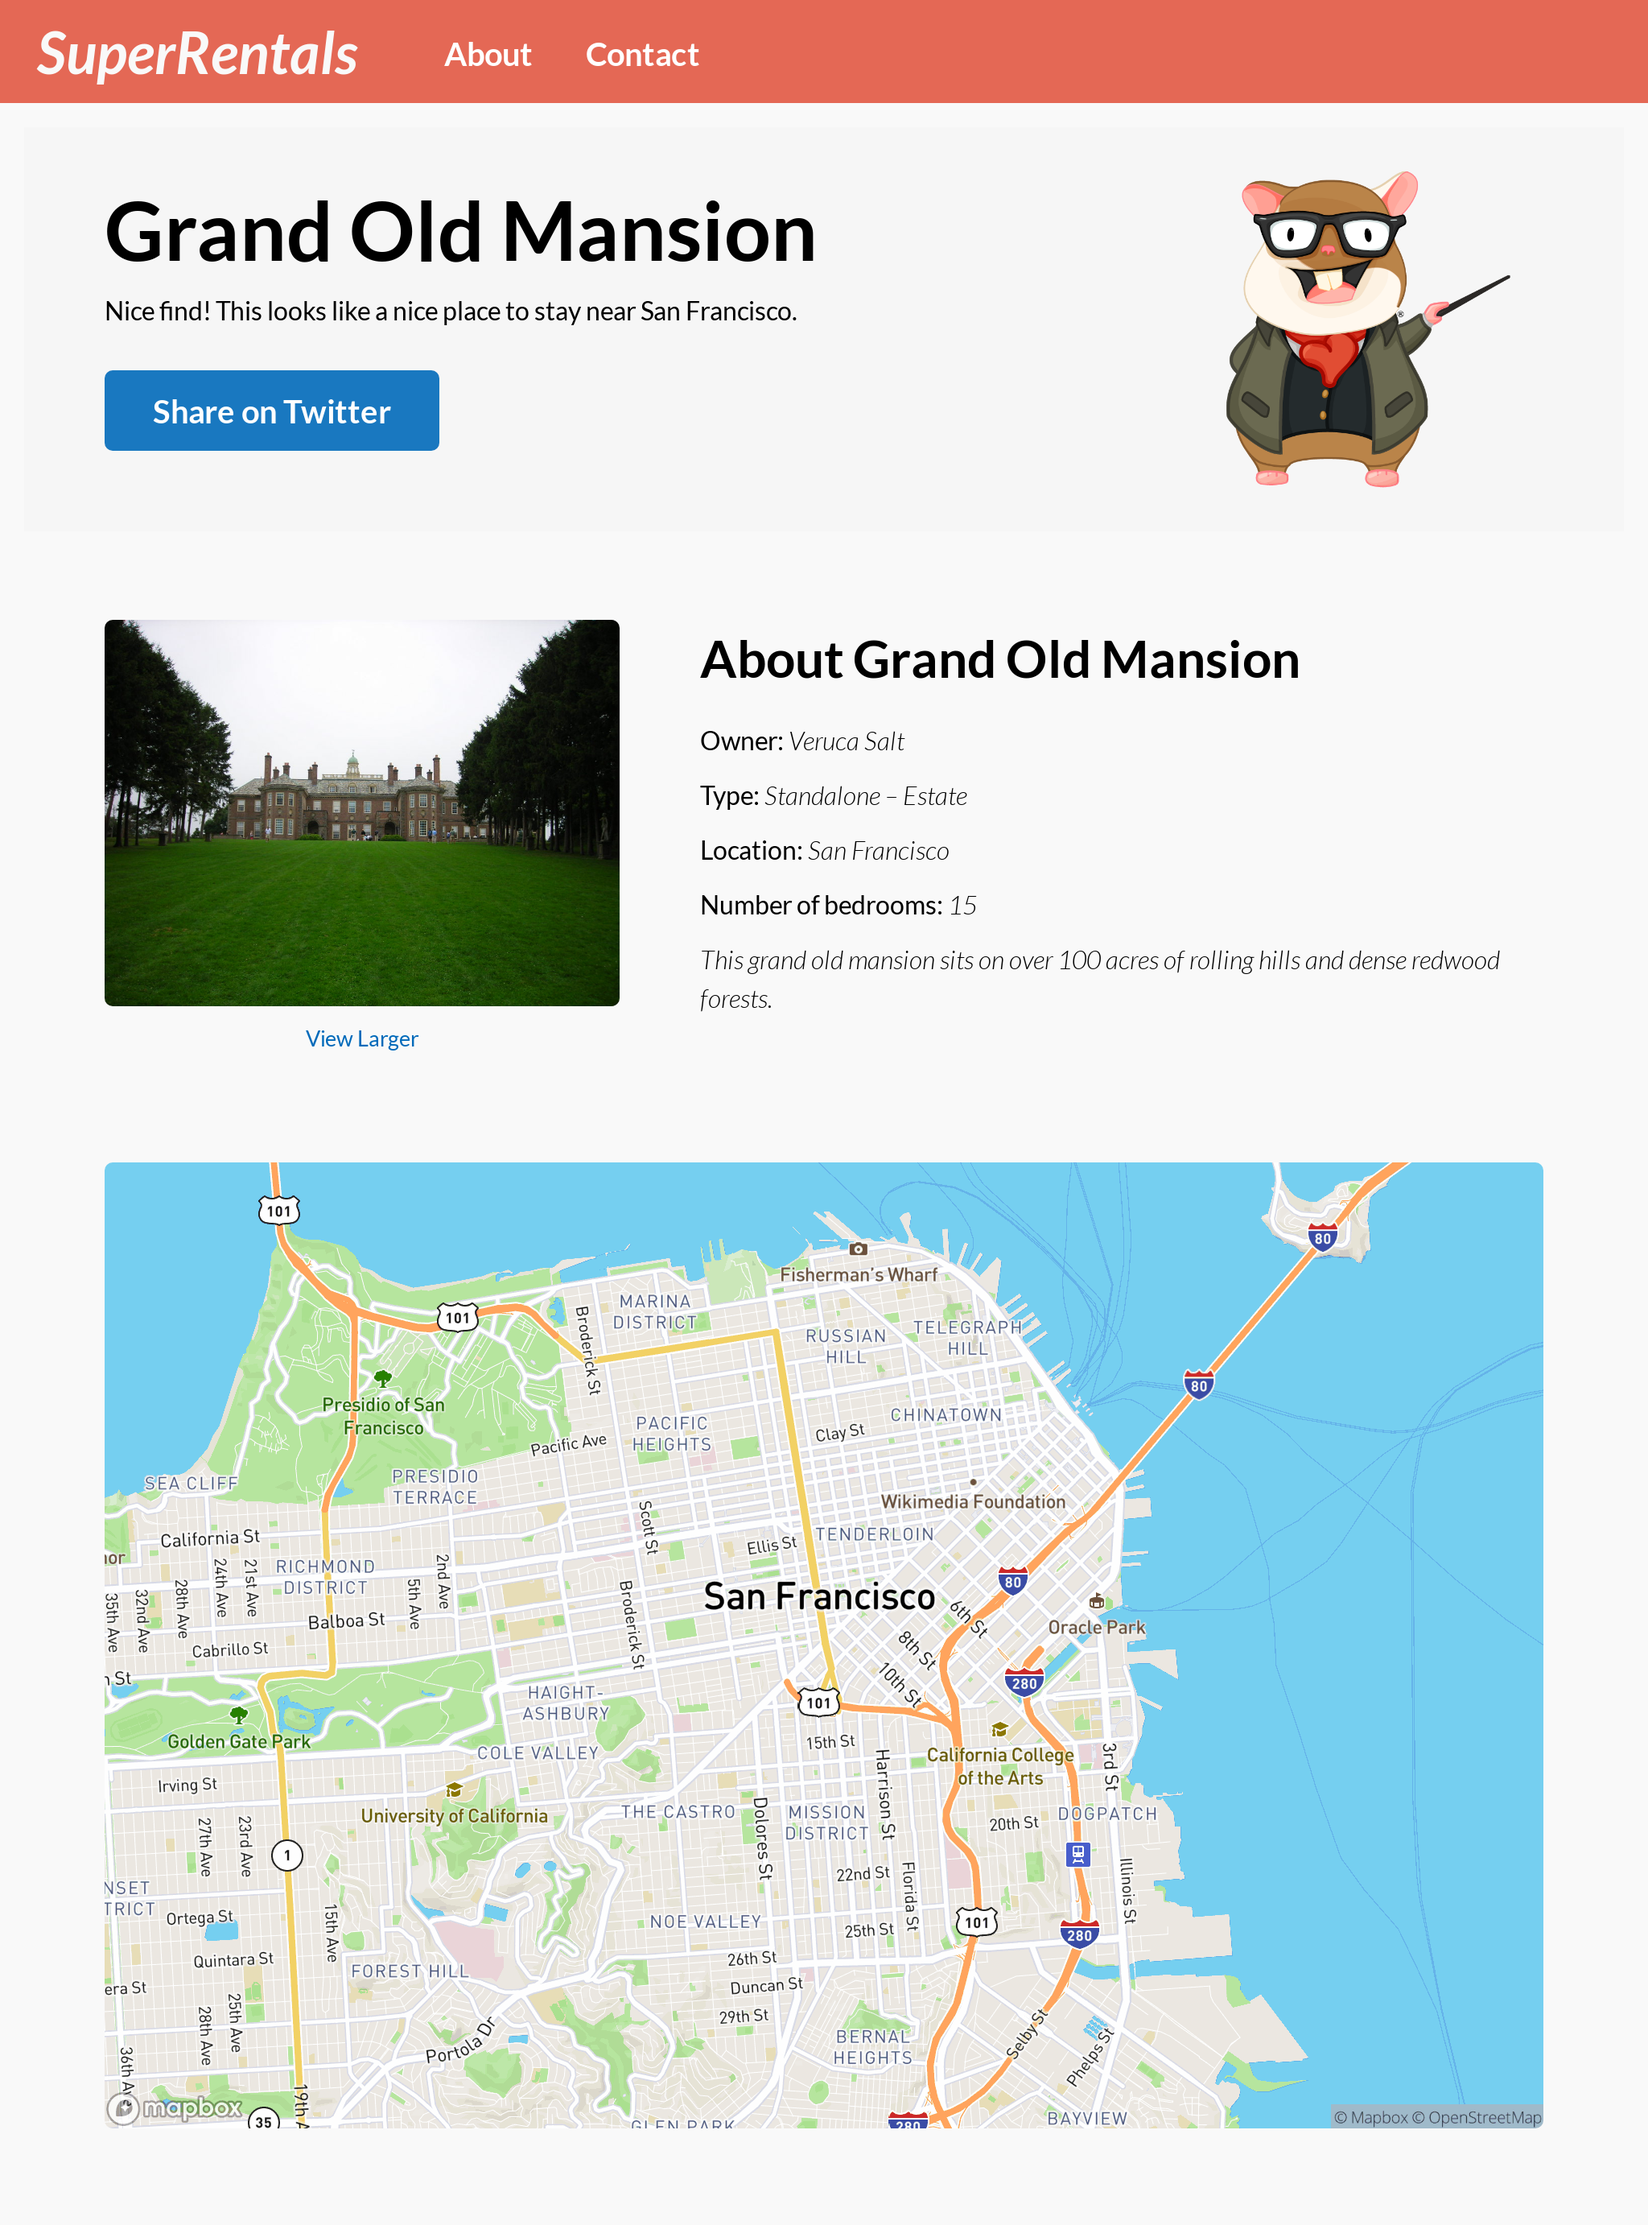
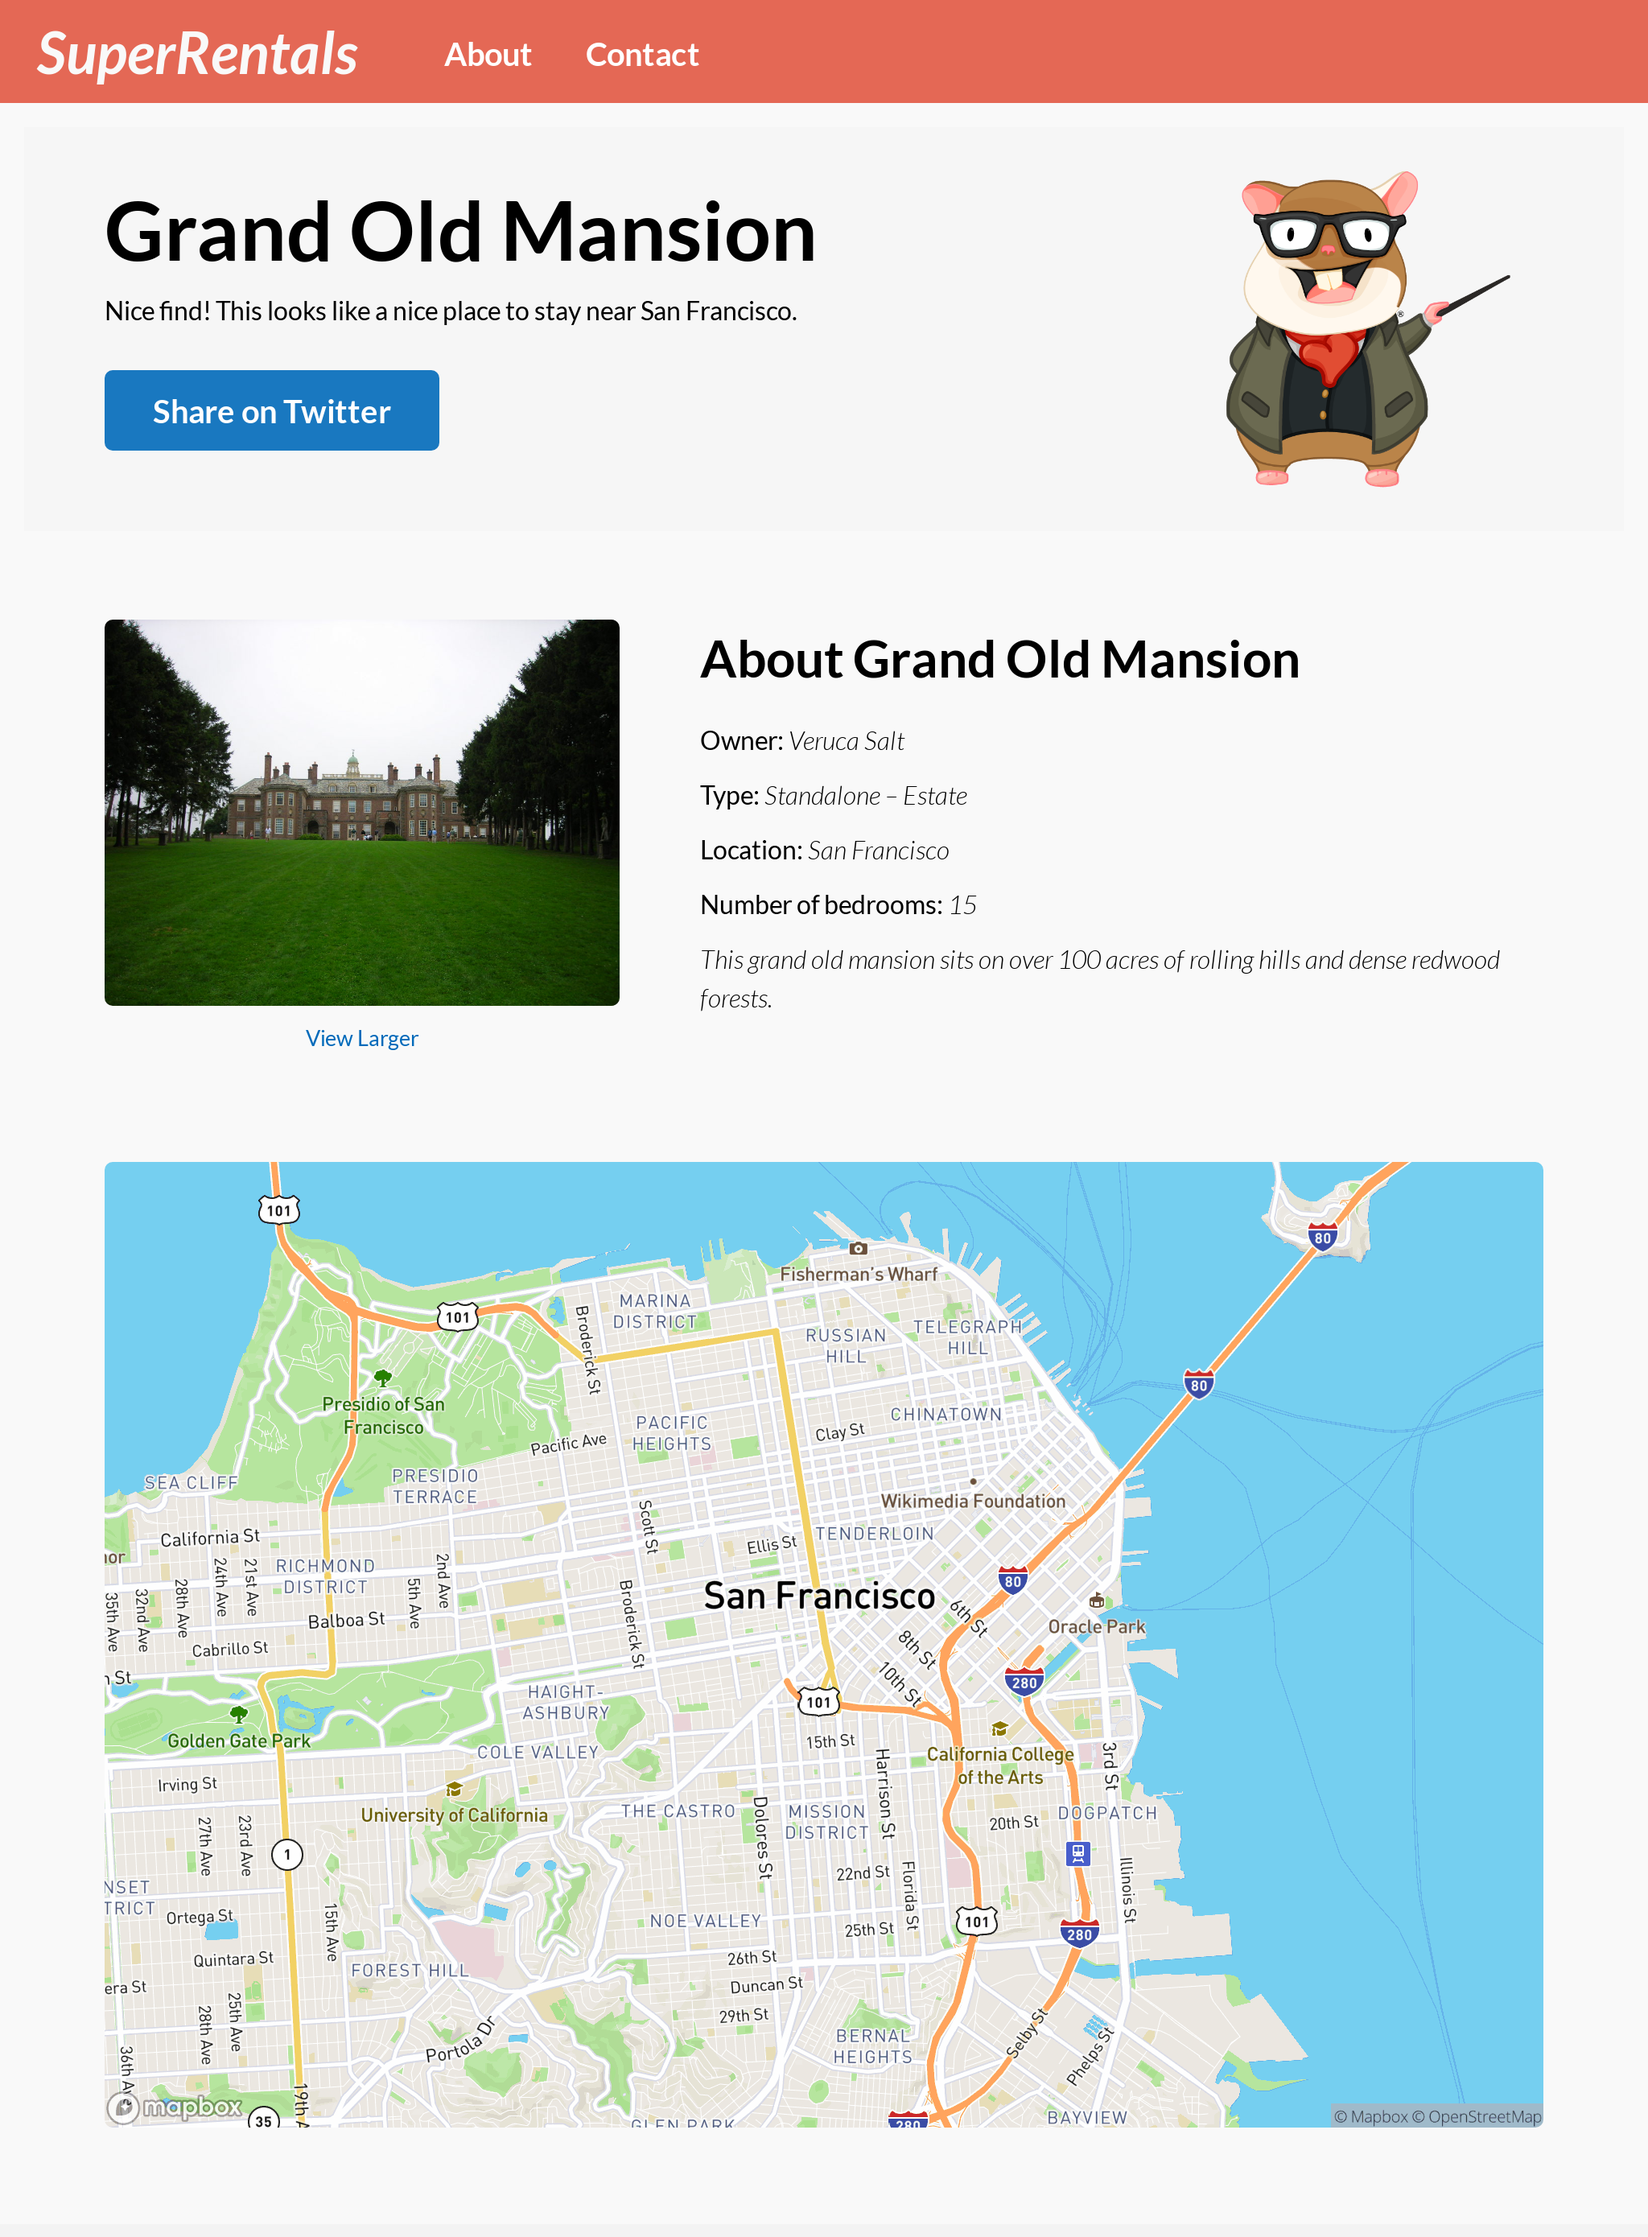
[CRON] Monday Mar 13, 2023
---

Commit:  ember-learn/super-rentals-tutorial@aeead18f118b159de84348eacbf554860f98f13a
Script:  https://github.com/ember-learn/super-rentals-tutorial/blob/aeead18f118b159de84348eacbf554860f98f13a/.github/workflows/build.yml
Logs:    https://github.com/ember-learn/super-rentals-tutorial/commit/aeead18f118b159de84348eacbf554860f98f13a/checks

diff --git a/guides/release/tutorial/part-2/service-injection.md b/guides/release/tutorial/part-2/service-injection.md
@@ -4,7 +4,7 @@ As promised, we will now work on implementing the share button!
 
 <!-- TODO: make this a gif instead -->
 
-<img src="/images/tutorial/part-2/service-injection/share-button@2x.png" alt="The working share button by the end of the chapter" width="1024" height="1382">
+<img src="/images/tutorial/part-2/service-injection/share-button@2x.png" alt="The working share button by the end of the chapter" width="1024" height="1390">
 
 While adding the share button, you will learn about:
 
@@ -174,7 +174,7 @@ Let's put this component to use by invoking it from the `<Rental::Detailed>` com
 
 With that, we should have a working share button!
 
-<img src="/images/tutorial/part-2/service-injection/share-button@2x.png" alt="A share button that works!" width="1024" height="1382">
+<img src="/images/tutorial/part-2/service-injection/share-button@2x.png" alt="A share button that works!" width="1024" height="1390">
 
 <div class="cta">
   <div class="cta-note">
